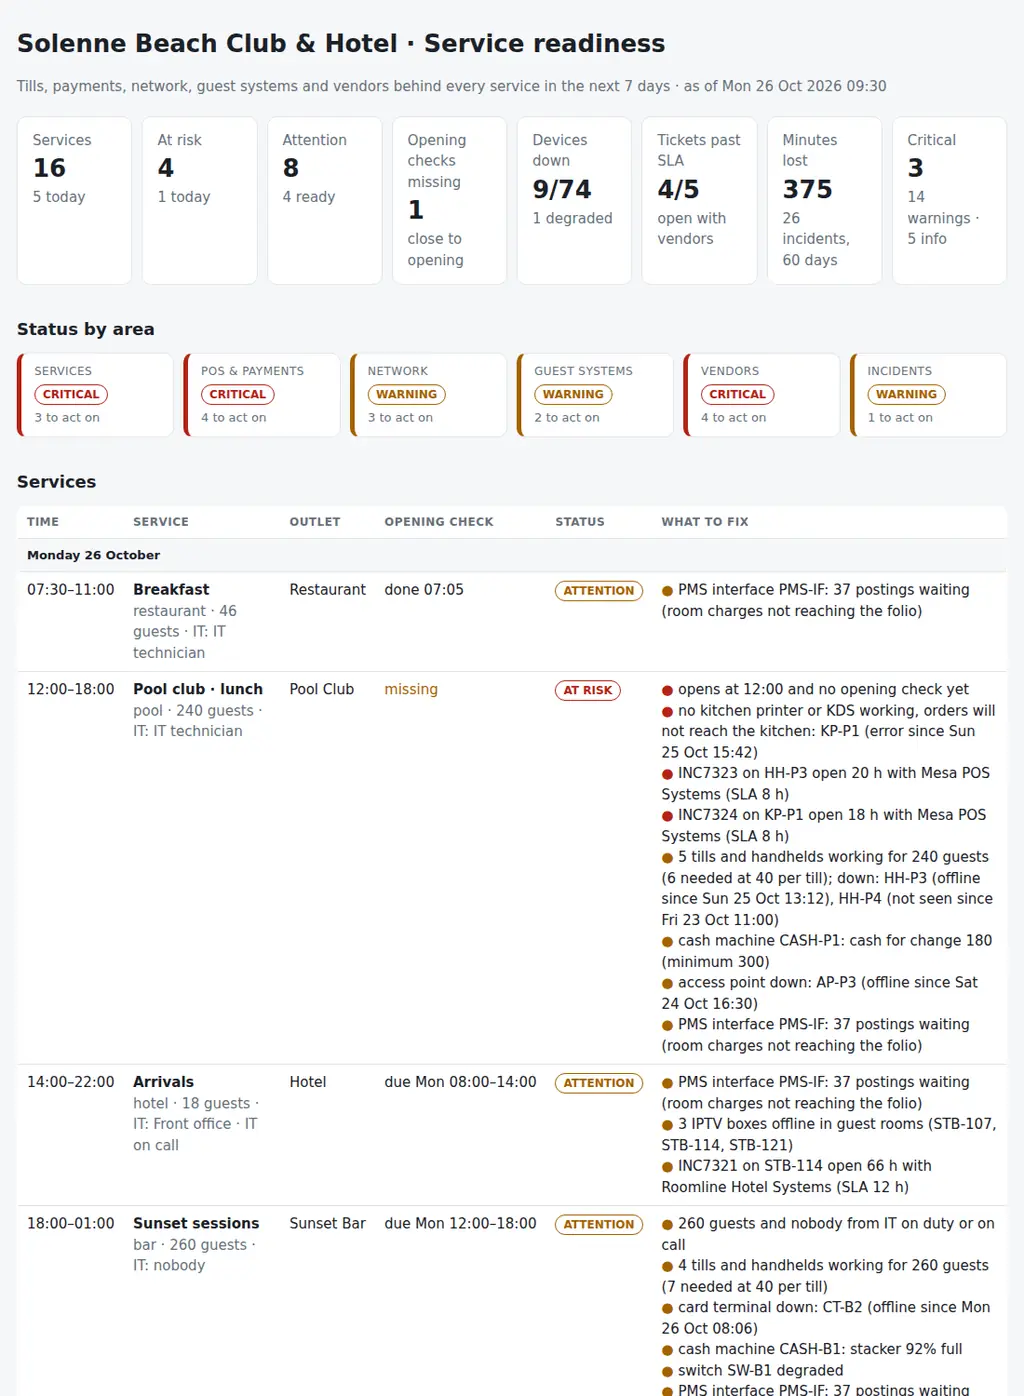
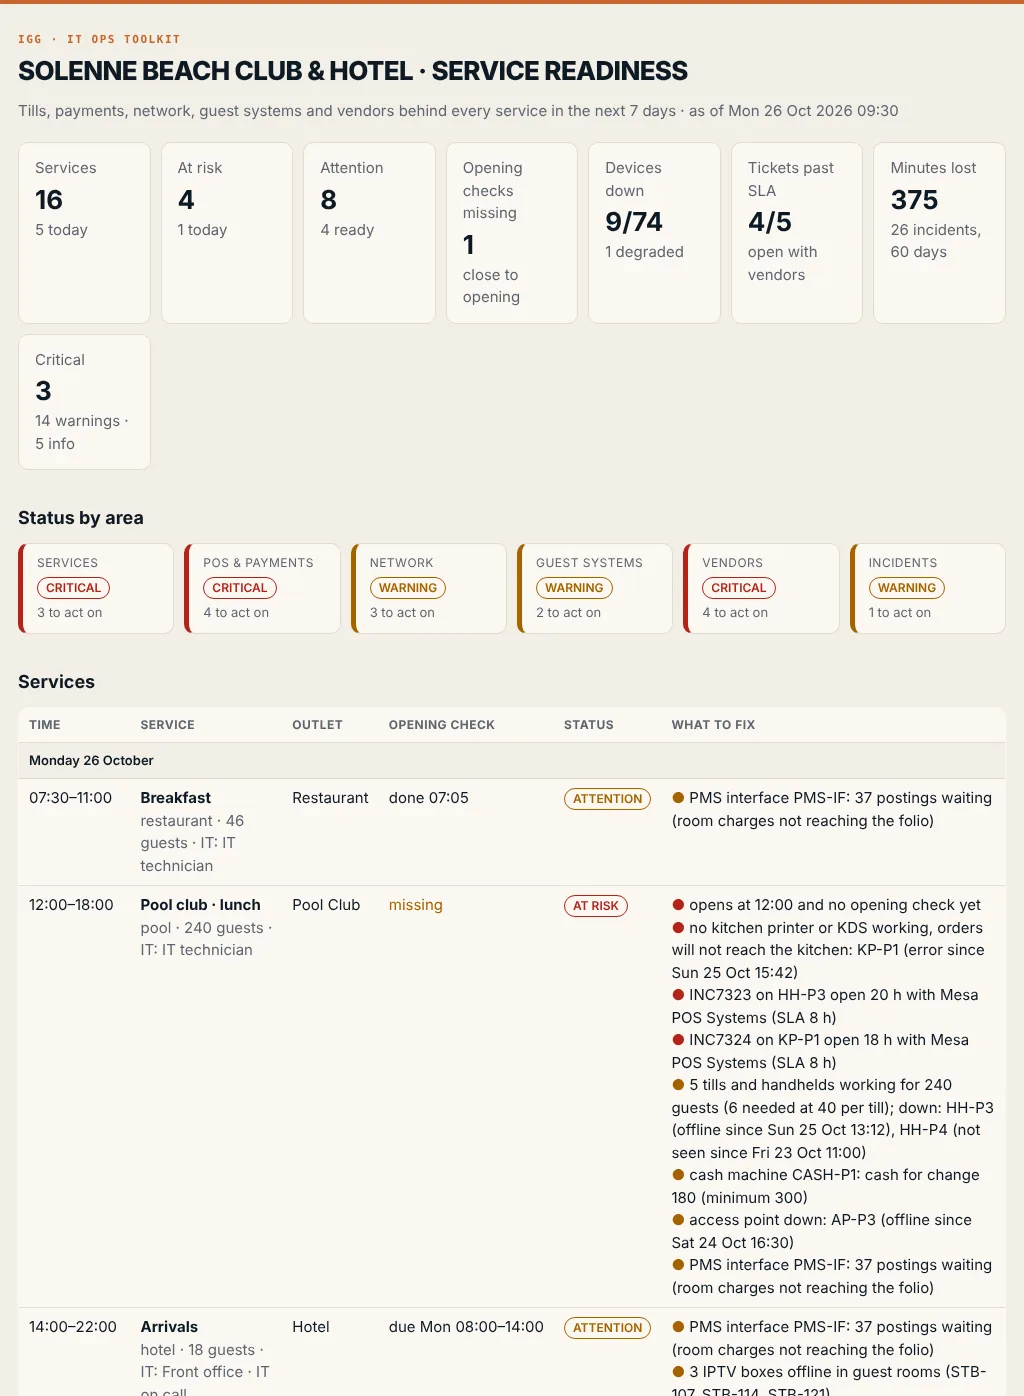
Report: IGG colours (paper, ink and the orange accent) and a new screenshot

diff --git a/venueready/report.py b/venueready/report.py
@@ -137,9 +137,9 @@ def opening_md(d: Data, findings: list[Finding], b: dict) -> str:
 # ---------------------------------------------------------------- html
 
 CSS = """
-:root{--bg:#f6f7f8;--card:#fff;--ink:#1b2128;--muted:#66717c;--line:#e2e5e9;--ok:#1e7a4c;--warn:#a46200;--bad:#b42318;--info:#0b6bcb}
-@media (prefers-color-scheme:dark){:root{--bg:#13171b;--card:#1b2127;--ink:#e7eaee;--muted:#9aa5b0;--line:#2b333b;--ok:#4cc38a;--warn:#f0a83a;--bad:#f2685c;--info:#5aa9f0}}
-*{box-sizing:border-box}body{margin:0;background:var(--bg);color:var(--ink);font:15px/1.5 system-ui,-apple-system,Segoe UI,sans-serif}
+:root{--bg:#f2eee6;--card:#fbf8f3;--ink:#0e1a24;--muted:#5d6670;--line:#e2dccf;--ok:#1e7a4c;--warn:#a46200;--bad:#b42318;--info:#1f5f8b}
+@media (prefers-color-scheme:dark){:root{--bg:#0e1a24;--card:#142331;--ink:#f2eee6;--muted:#a9b3bb;--line:#24364a;--ok:#4cc38a;--warn:#f0a83a;--bad:#f2685c;--info:#5aa9f0}}
+*{box-sizing:border-box}body{border-top:4px solid #c4672b}h1{font-weight:800;letter-spacing:-.025em;text-transform:uppercase;line-height:1.05}h1::before{content:"IGG · IT Ops toolkit";display:block;font:600 11px/1.4 ui-monospace,SFMono-Regular,Menlo,monospace;letter-spacing:.14em;text-transform:uppercase;color:#c4672b;margin-bottom:10px}body{margin:0;background:var(--bg);color:var(--ink);font:15px/1.5 system-ui,-apple-system,Segoe UI,sans-serif}
 main{max-width:1100px;margin:0 auto;padding:28px 18px 60px}h1{font-size:26px;margin:0 0 4px}h2{font-size:18px;margin:34px 0 12px}
 .muted{color:var(--muted)}.tiles{display:grid;grid-template-columns:repeat(auto-fit,minmax(118px,1fr));gap:10px;margin-top:20px}
 .tile{background:var(--card);border:1px solid var(--line);border-radius:10px;padding:14px 16px}.tile b{display:block;font-size:26px}
